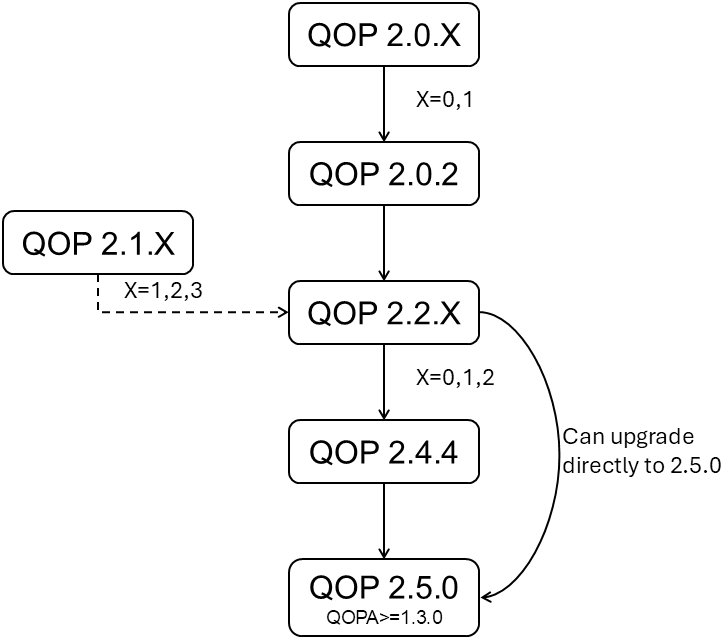
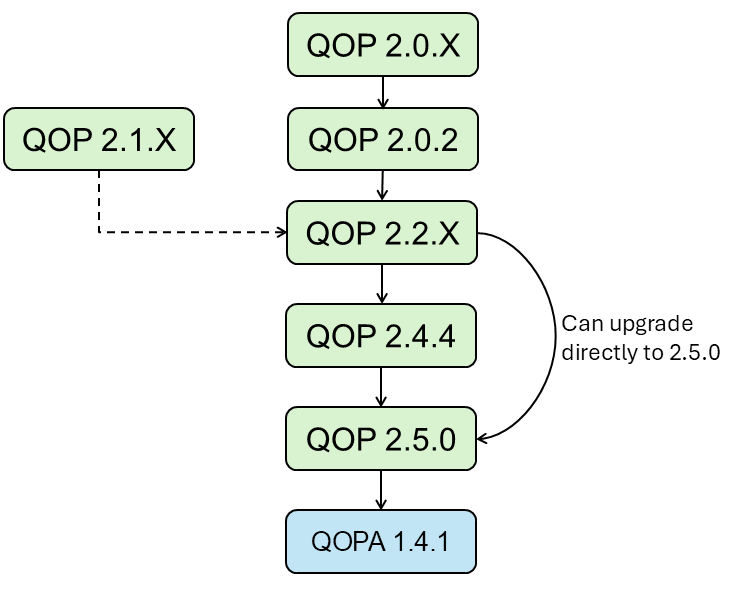
Release 1.2.3.1764164525

diff --git a/qm_saas/client.py b/qm_saas/client.py
@@ -499,6 +499,7 @@ class QmSaas:
         password: str = None,
         auto_cleanup: bool = True,
         log: logging.Logger = None,
+        protocol: str = "https",
     ):
         """
         Create a QmSaas client.
@@ -511,16 +512,20 @@ class QmSaas:
             auto_cleanup: If true (default), automatically delete the simulator instance when the context manager exits
                           otherwise it will be left running until it timeouts or is manually closed.
             log: The logger to use for logging messages. If not provided, a default logger will be used.
+            protocol: The protocol used to communicate with the simulator instance. Must be either 'https' or 'http'.
         """
+        if protocol not in ("https", "http"):
+            raise ValueError("Protocol must be either 'https' or 'http'")
+
         self.log = log or logging.getLogger(__name__)
         self.auto_cleanup = auto_cleanup
         self._client = Client(
-            protocol="https",
+            protocol=protocol,
             host=host,
             port=port,
             email=email,
             password=password,
-            log=self.log
+            log=self.log,
         )
 
     def simulator(self, version: any = None, cluster_config: ClusterConfig = None) -> QmSaasInstance:

diff --git a/docs/Hardware/QDAC.md b/docs/Hardware/QDAC.md
@@ -13,12 +13,14 @@ Below you can find the links to the manuals and firmware updates for the QDAC-II
 
 === "QDAC-II (Compact)"
 
-    - PDF version of the latest QDAC-II User Manual: [QDAC-II manual](https://qm.quantum-machines.co/hubfs/QDAC%20II%20-%20User%20manual%20v2.2%20(2024-01-17).pdf)
-    - Firmware update version 13-1.57:
-        - [Firmware updater windows*](https://qdevil-public.s3.eu-west-1.amazonaws.com/qdac2/qdac2-fw-update_13-1.57.exe)
-        - [Firmware updater MacOS*](https://qdevil-public.s3.eu-west-1.amazonaws.com/qdac2/qdac2-fw-update-macos_13-1.57)
-        - [Firmware updater Linux*](https://qdevil-public.s3.eu-west-1.amazonaws.com/qdac2/qdac2-fw-update-linux_13-1.57)
-    - [Firmware release notes](https://6821620.hubspotpreview-na1.com/hubfs/QDAC-II%20Firmware%20release%20notes.pdf)
+    - PDF version of the latest QDAC-II Compact User Manual: [QDAC-II Compact manual](https://qm.quantum-machines.co/hubfs/QDAC%20II%20Compact%20-%20Operation%20manual%20-%20v1.3%20(2025-20-06).pdf)
+    - PDF version of the latest QDAC-II User Manual: [QDAC-II manual](https://qm.quantum-machines.co/hubfs/QDAC%20II%20-%20User%20manual%20-%20v2.4%20(2025-20-06).pdf)
+    - PDF command reference for QDAC-II Compact: [QDAC-II Compact Command Reference](https://qm.quantum-machines.co/hubfs/QDAC%20II%20(Compact)%20-%20Command%20reference%20-%20v1.2%20(2025-20-06).pdf)
+    - Firmware update version 14-1.70:
+        - [Firmware updater windows*](https://qdevil-public.s3.eu-west-1.amazonaws.com/qdac2/qdac2-fw-update_14-1.70.exe)
+        - [Firmware updater MacOS*](https://qdevil-public.s3.eu-west-1.amazonaws.com/qdac2/qdac2-fw-update-macos_14-1.70)
+        - [Firmware updater Linux*](https://qdevil-public.s3.eu-west-1.amazonaws.com/qdac2/qdac2-fw-update-linux_14-1.70)
+    - [Firmware release notes](https://qm.quantum-machines.co/hubfs/QDAC-II%20Firmware%20release%20notes.pdf?hsLang=en)
     
     !!! Important
         $*$ Please follow the instructions in the user manual on how to perform a firmware update.
@@ -33,6 +35,10 @@ Below you can find the links to the manuals and firmware updates for the QDAC-II
 
 === "Previous firmware versions (QDAC-II)"
 
+    - 13-1.57
+        - [Firmware 13-1.57 updater Windows](https://qdevil-public.s3.eu-west-1.amazonaws.com/qdac2/qdac2-fw-update_13-1.57.exe)
+        - [Firmware 13-1.57 updater MacOS](https://qdevil-public.s3.eu-west-1.amazonaws.com/qdac2/qdac2-fw-update-macos_13-1.57)
+        - [Firmware 13-1.57 updater Linux](https://qdevil-public.s3.eu-west-1.amazonaws.com/qdac2/qdac2-fw-update-linux_13-1.57)
     - 13-1.54
         - [Firmware 13-1.54 updater Windows](https://qdevil-public.s3.eu-west-1.amazonaws.com/qdac2/qdac2-fw-update_13-1.54.exe) 
         - [Firmware 13-1.54 updater MacOS](https://qdevil-public.s3.eu-west-1.amazonaws.com/qdac2/qdac2-fw-update-macos_13-1.54)

diff --git a/docs/Guides/output_filter.md b/docs/Guides/output_filter.md
@@ -100,9 +100,9 @@ $$s(t) = \left(e^{-\frac{t}{\tau_{hp}}} + A_2e^{-\frac{t}{\tau_2}} + A_3e^{-\fra
     In most cases, it is better to set $A_{dc}$ to a small non-zero value, and $A_{1}=1-A_{dc}$, which would lead to a long decay with a time constant of $\frac{\tau_{hp}}{A_{dc}}$.
     e.g. if $A_{dc}=\frac{\tau_{hp}}{0.5 s}$, the decay time will be 0.5 seconds.
 
-    This filter does not fully compensate the high-pass filter. However, the voltage error at the output of the high-pass filter is proportional to the deviation from net-zero over the timescale of the exponential decay, and is bounded by $A_{dc} \cdot V_{max}$, where $V_{max}$ is the max voltage at the output of the high-pass filter.
+    This filter does not fully compensate the high-pass filter. The voltage error at the output of the high-pass filter is the deviation from net-zero weighted by an exponential decay with the chosen time constant:
     
-    The exact value of the error is $e(t) = \frac{A_{dc}^2}{\tau_\text{hp}} \cdot \int_\infty^t x(\tilde{t})e^{-A_{dc} \frac{t-\tilde{t}}{\tau_\text{hp}}} \,d\tilde{t}$
+    $e(t) = \frac{A_{dc}}{\tau_\text{hp}} \cdot \int_{-\infty}^t x(\tilde{t})e^{-A_{dc} \frac{t-\tilde{t}}{\tau_\text{hp}}} \,d\tilde{t}$
 
 ## Using The Filters
 

diff --git a/docs/Releases/qopa_releases.md b/docs/Releases/qopa_releases.md
@@ -8,17 +8,20 @@ Note that the admin was taken out of the QOP package and is a separate package s
 QOPA 1.4.1 can be downloaded from [here](https://qmpublic.s3.amazonaws.com/QOPA/1762876057-ida1o5/QOPA1.4.1.tar.gz.age).
 
 **Added**
+
 - Support for installing the Quantum Operation Platform Firmware (QOPF) package for OPX1000
   - Added the QOPF package with specialized installation process, for a robust and safe firmware upgrades.
   - Added safeguard to prevent cluster booting when at least one FEM does not comply with QOPF version 1.1.0.
 - Added BSP compatibility check to all QOP3.x.x package installation procedures.
 
 **Changed**
+
 - Changed device discovery from polling to streaming, resulting in lower topology latency.
 - Optimized loading speed of the QOPA user interface.
 - Deny API operations on devices during clustering or update procedures.
 
 **Fixed**
+
 - Fixed downgrades to <= QOP3.4.x from >= QOP3.5.0.
 - Fixed streaming results cleanup for OPX+ devices preventing a full disk.
 - Fixed streaming and compiler files cleanup for OPX1000 devices preventing a full disk.

diff --git a/docs/Guides/simulator.md b/docs/Guides/simulator.md
@@ -68,18 +68,6 @@ For example, the following adds noise with variance 1 $V^2$ and 100 ns latency. 
 qmm.simulate(config, prog, SimulationConfig(duration, simulation_interface=LoopbackInterface([("con1", 1, "con1", 2)], noisePower=1, latency=100))
 ```
 
-#### Raw ADC interface
-
-It is possible to explicitly specify the signal passed into the OPX in the simulation.
-This is quite similar to the LoopbackInterface described above and supports the same options.
-
-For example, the code snippet below plays a 1 microsecond signal to input 1 of the device called `"con1"`.
-
-```python
-signal = np.linspace(0, 0.2, 1000).tolist()
-qmm.simulate(config, prog, SimulationConfig(duration, simulation_interface=RawInterface([("con1",1,signal)], noisePower=1, latency=100))
-```
-
 ### Simulating Multiple Controllers
 
 To simulate a system of multiple controllers, the inter-controller optical connectivity needs to be specified. 

diff --git a/docs/Guides/features.md b/docs/Guides/features.md
@@ -1065,8 +1065,11 @@ The 'duration' parameter can accept a general mathematical expression composed o
 numbers, QUA variables and QUA functions (such as cos and sin).
 
 !!! Warning
-    When playing an arbitrary waveform, if the value of the duration parameter is set to below the original pulse
+    - When playing an arbitrary waveform, if the value of the duration parameter is set to below the original pulse
     length, corrupted output may occur.
+    - Arbitrary waveforms cannot be compressed and can only be expanded up to $2^{24}-1$ clock cycles (67ms).
+        - When using a qua variable for the duration, using a value above the allowed range will result in an unexpected output.
+        - When using a python literal for the duration, using a value above the allowed range will result in an error.
 
 ## Truncate Pulses
 

diff --git a/docs/Releases/qop_installation_guide.md b/docs/Releases/qop_installation_guide.md
@@ -45,7 +45,9 @@ you reach the desired release.
     {{ requirement("QOP", "2.0") }} 
     
     ![QOP_Versions_Flowchart](assets/QOP_Upgrade_flowchart_2.x.x.png)
-
+    
+    !!! Note "Important note"
+        For the best performence, please make sure to update the QOPA version to the latest one.
 
     1. In the web GUI, navigate to `Preferences > Versions`.
     1. Click the blue `Upload` button and follow the on-screen instructions to upload the desired QOP package.

diff --git a/docs/Releases/qm_qua_releases.md b/docs/Releases/qm_qua_releases.md
@@ -5,6 +5,13 @@ All notable changes to this project will be documented in this file.
 The format is based on [Keep a Changelog](https://keepachangelog.com/en/1.0.0/).
 
 
+## 1.2.3.1 - 2025-11-24
+- Requires Python >=3.9, <3.13
+
+**Fixed**
+
+- Removed poetry from dependencies
+
 ## 1.2.3 - 2025-08-28
 - Requires Python >=3.9, <3.13
 - Tested against QOP 2.5.0, 3.5.0

diff --git a/docs/Hardware/DGXQ_Installation.md b/docs/Hardware/DGXQ_Installation.md
@@ -107,7 +107,7 @@ If the system was previously configured, you can skip directly to step 4.
     1. Check the version by running:
 
         ```
-        opnic version
+        opnic -vv version
         ```
 
     2. Validate that the output indeed shows the latest FPGA and PLL images:

diff --git a/docs/API_references/simulator_api.md b/docs/API_references/simulator_api.md
@@ -9,8 +9,6 @@ search:
 
 ::: qm.simulate.loopback.LoopbackInterface
 
-::: qm.simulate.raw.RawInterface
-
 ::: qm.results.simulator_samples.SimulatorControllerSamples
 
 ## Cloud Simulator API
